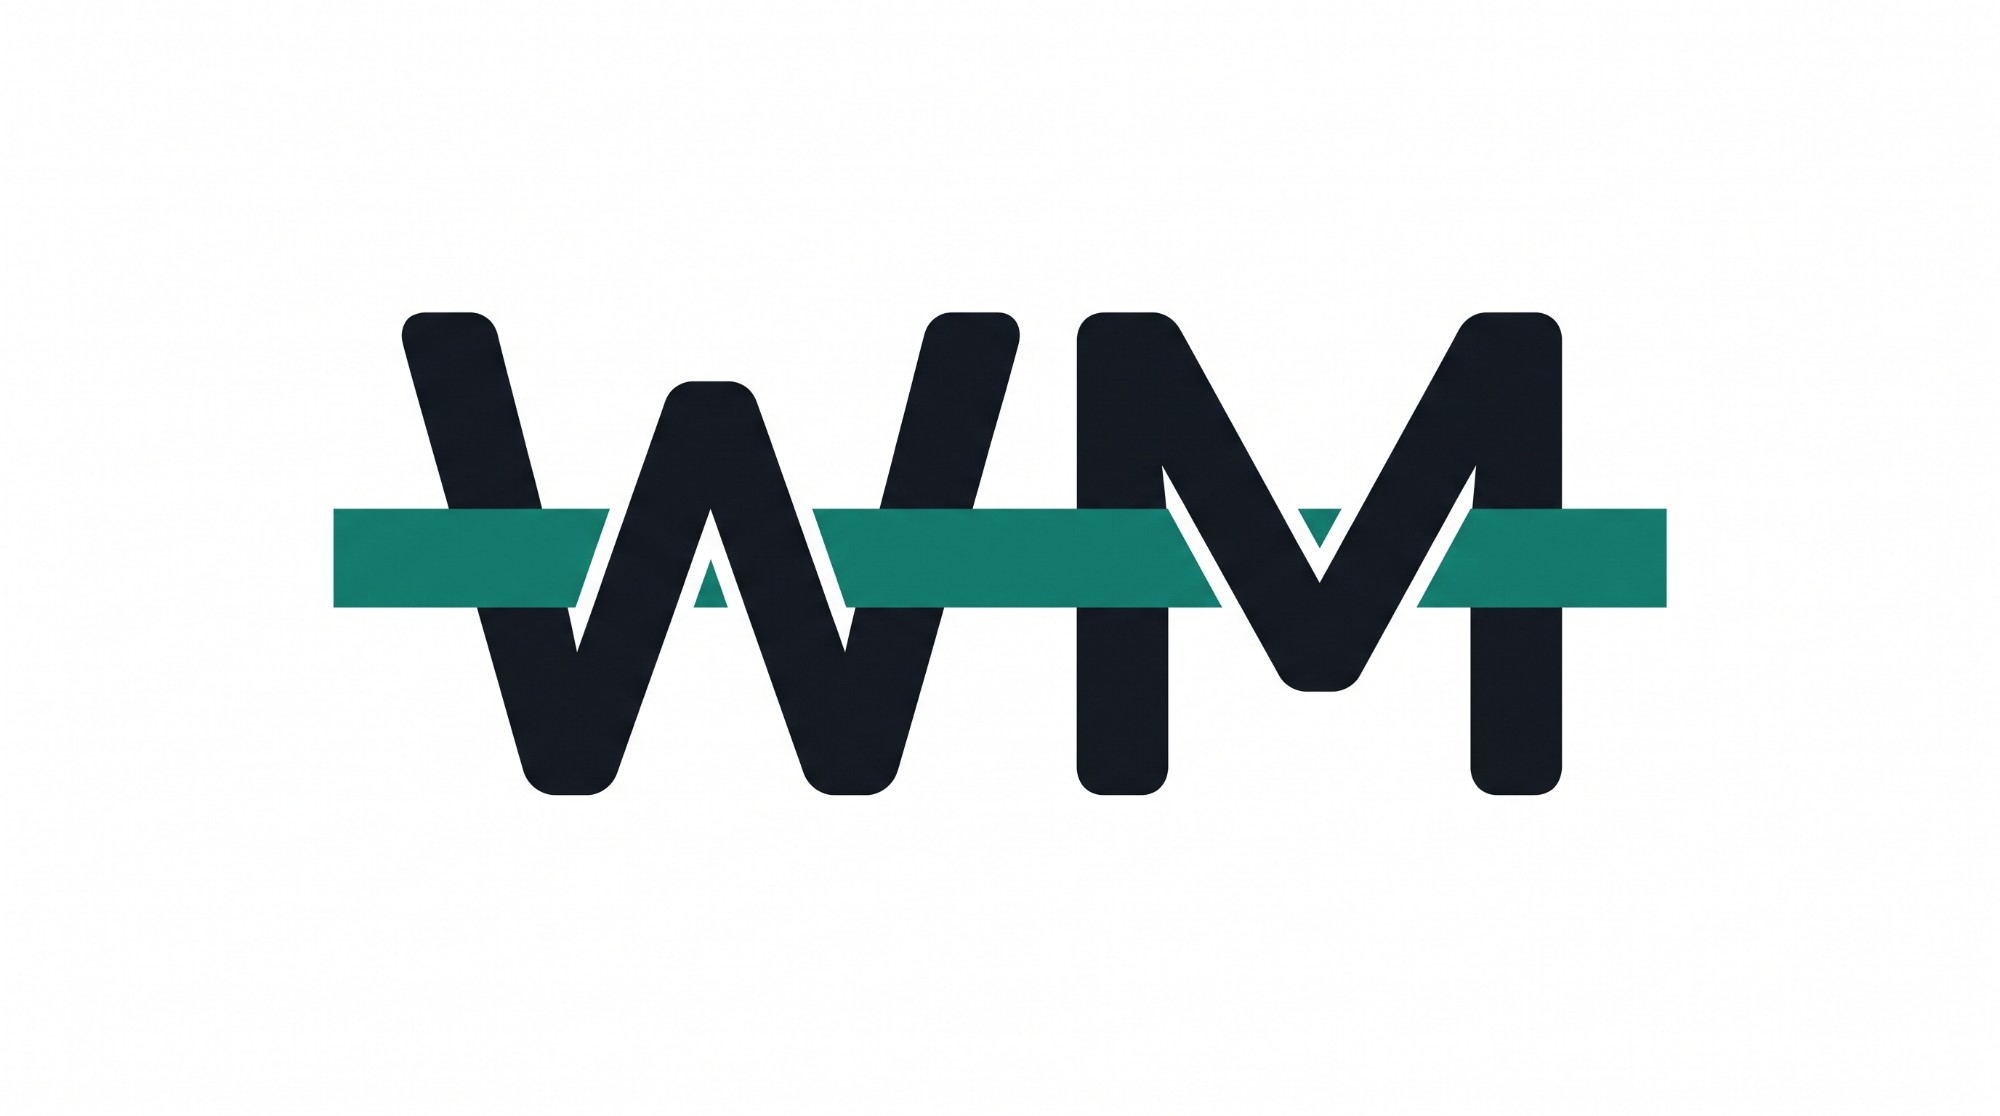
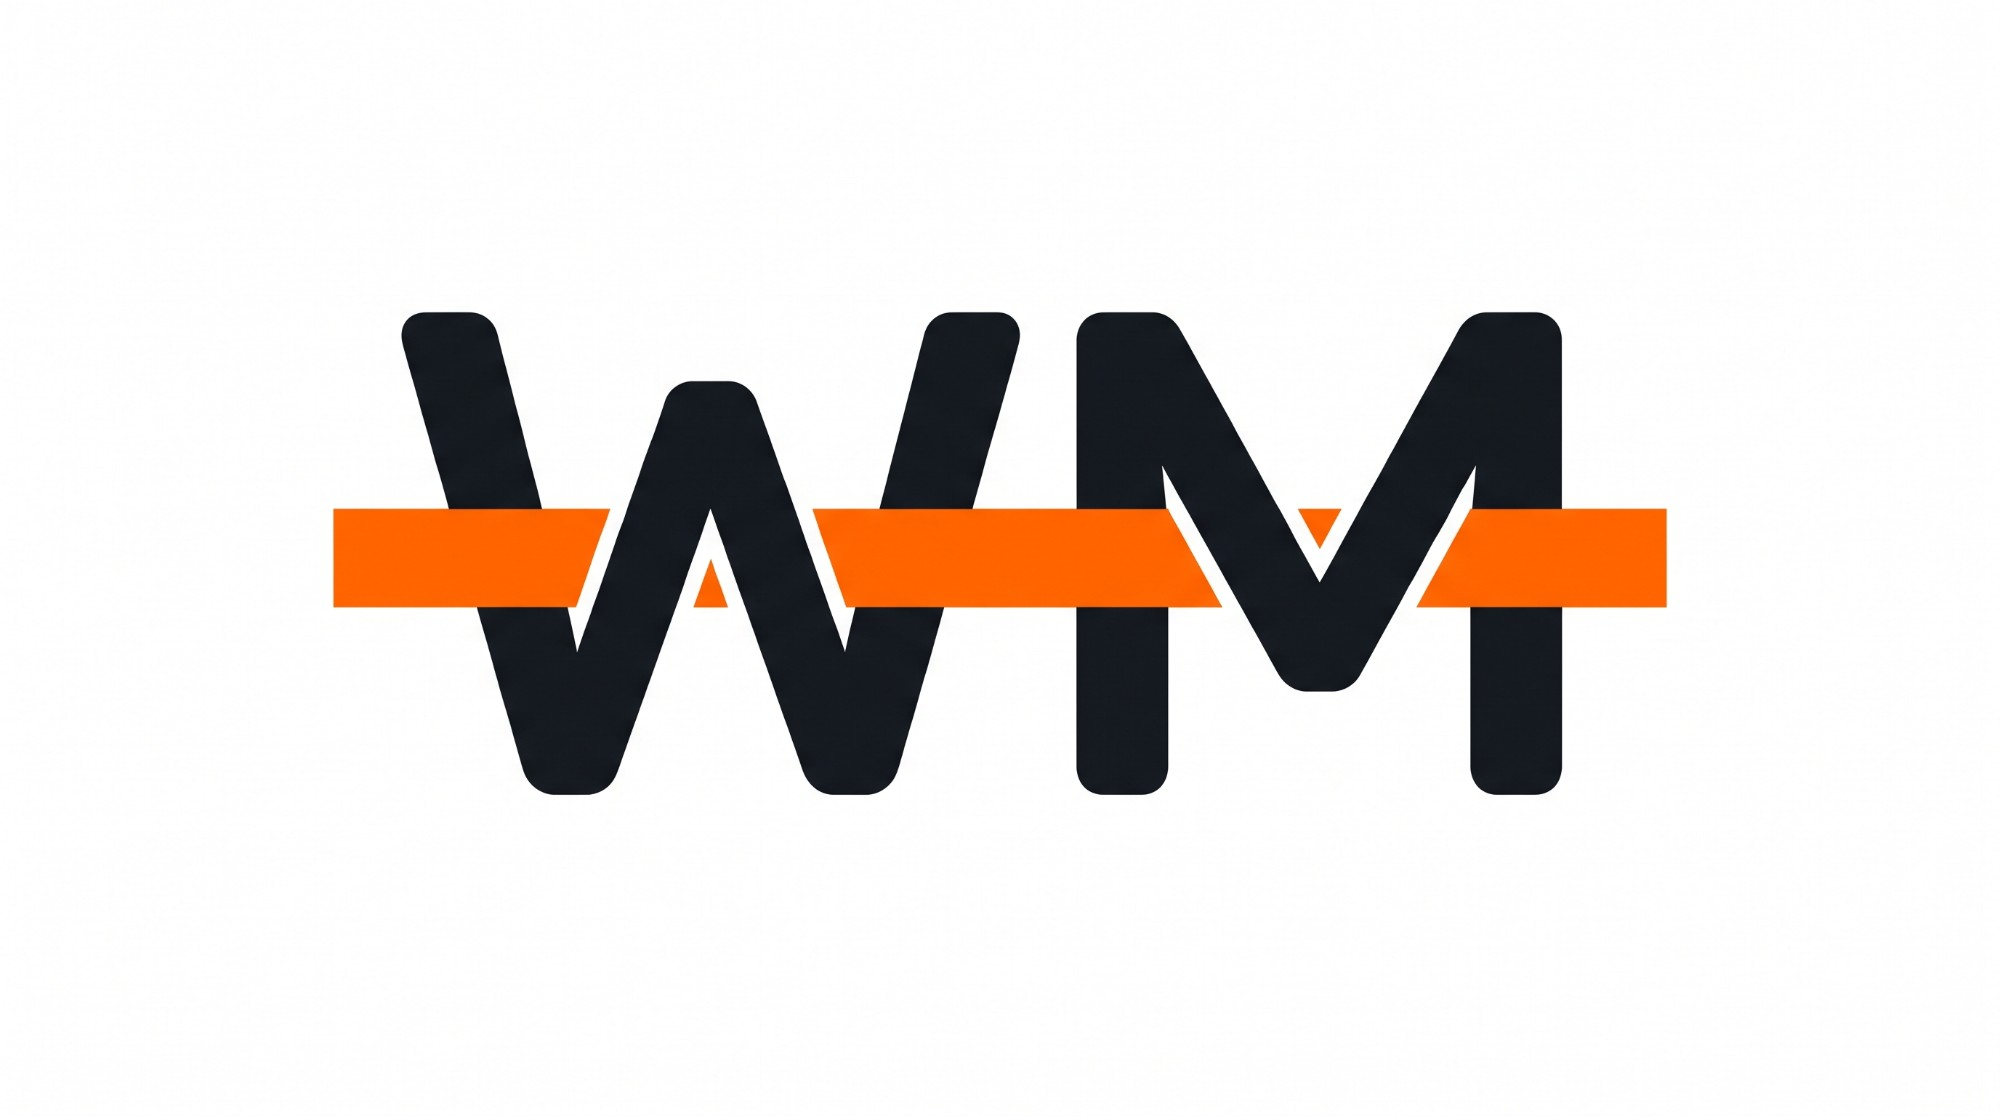
ロゴの帯を緑からオレンジに替え、マーク・ファビコン・共有用の画像を作り直す(本人の新しいロゴ)

diff --git a/scripts/make_brand_images.py b/scripts/make_brand_images.py
@@ -28,7 +28,7 @@ def transparent_mark() -> Image.Image:
     src = im.load()
     out = Image.new("RGBA", (w, h))
     px = out.load()
-    FULL = 228  # これ以上白から離れていれば不透明(文字の黒も緑も min が 20 前後)
+    FULL = 228  # これ以上白から離れていれば不透明(文字の黒もオレンジも min が 30 以下)
     for y in range(h):
         for x in range(w):
             r, g, b = src[x, y]
@@ -70,7 +70,7 @@ def main() -> None:
 <style>html,body{{margin:0;width:1200px;height:630px;background:#fff;overflow:hidden}}
 .c{{position:absolute;inset:0;display:flex;flex-direction:column;align-items:center;justify-content:center;gap:34px}}
 img{{width:430px}}.t{{font:700 76px Lexend;letter-spacing:-.02em;color:#16181d}}
-.s{{font:700 30px "Noto Sans JP";color:#0f7d70;letter-spacing:.08em;margin-top:-18px}}
+.s{{font:700 30px "Noto Sans JP";color:#E25E00;letter-spacing:.08em;margin-top:-18px}}
 .bar{{position:absolute;left:0;right:0;bottom:0;height:22px;background:#16181d}}</style></head>
 <body><div class="c"><img src="../brand/wm-mark.png"><div class="t">Wearable Mania</div><div class="s">ウェアラブルガジェット専門</div></div><div class="bar"></div></body></html>""",
                     encoding="utf-8")
